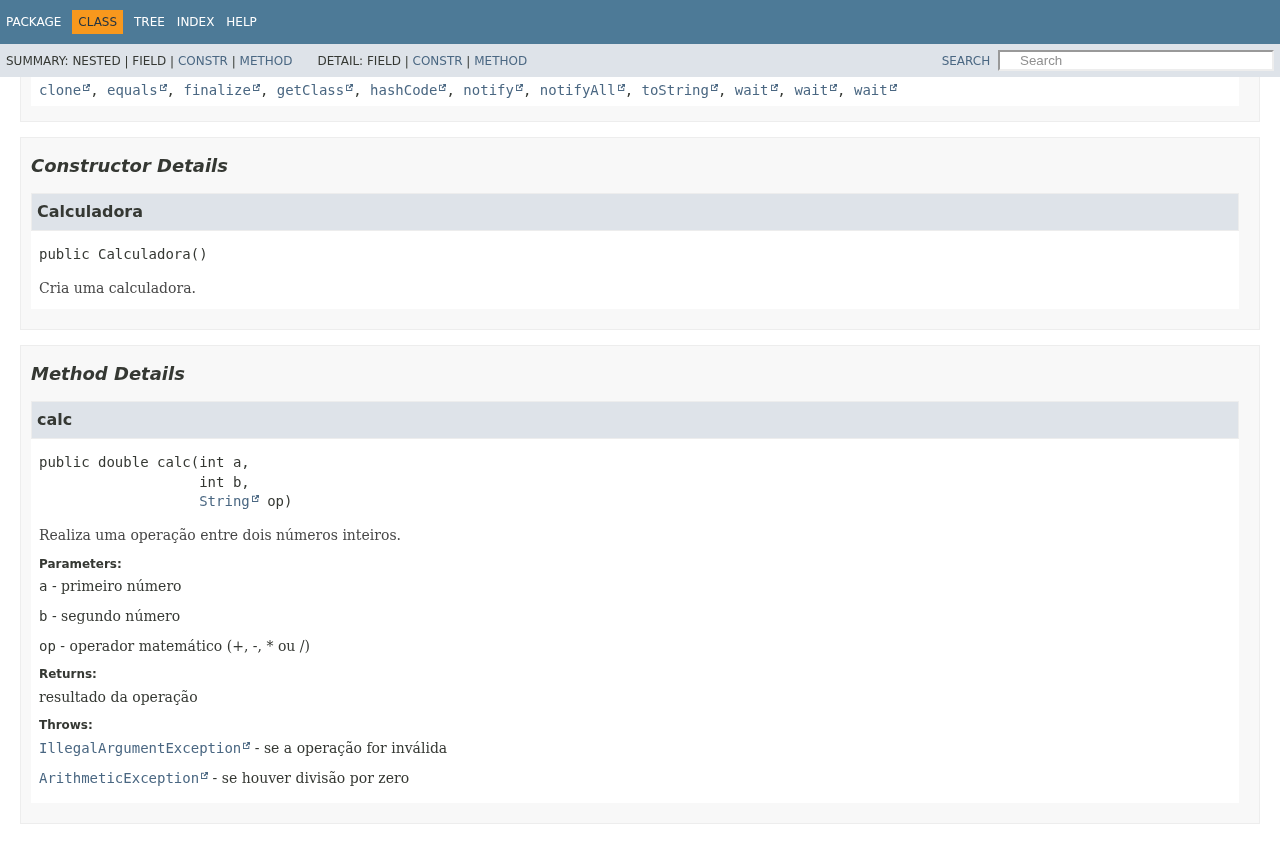
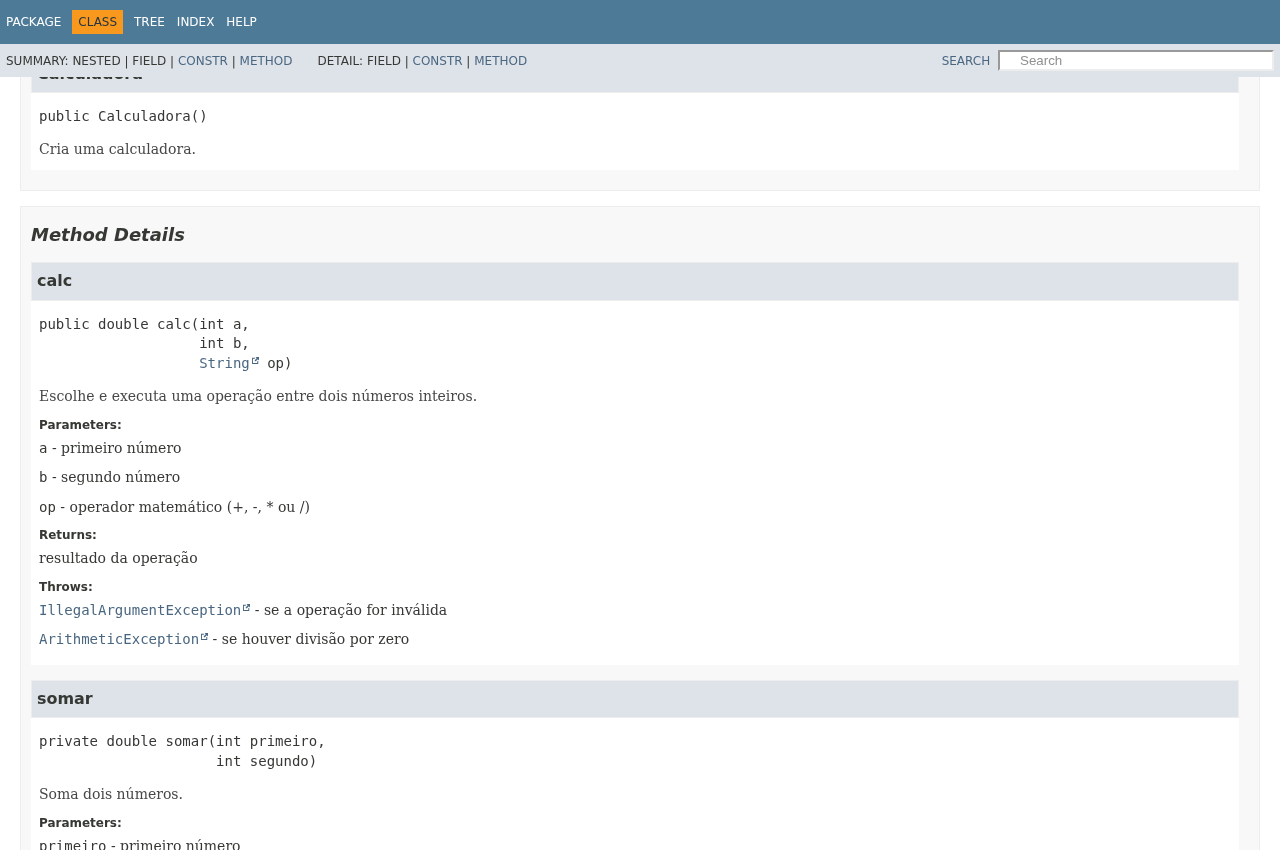
Atualiza JavaDoc e evidências dos testes após refatoração

Changed region(s): [[0.0, 0.4282, 0.9688, 1.0], [0.0, 0.0918, 0.9688, 0.4282]]

diff --git a/docs/calculadora/Calculadora.html b/docs/calculadora/Calculadora.html
@@ -90,10 +90,11 @@ loadScripts(document, 'script');</script>
 <hr>
 <div class="type-signature"><span class="modifiers">public class </span><span class="element-name type-name-label">Calculadora</span>
 <span class="extends-implements">extends <a href="https://docs.oracle.com/en/java/javase/21/docs/api/java.base/java/lang/Object.html" title="class or interface in java.lang" class="external-link">Object</a></span></div>
-<div class="block">Calculadora de operações matemáticas básicas.</div>
+<div class="block">Calculadora de operações matemáticas básicas.
+ Versão refatorada com métodos separados para cada operação.</div>
 <dl class="notes">
 <dt>Version:</dt>
-<dd>1.0</dd>
+<dd>2.0</dd>
 <dt>Author:</dt>
 <dd>Aluno</dd>
 </dl>
@@ -131,7 +132,31 @@ loadScripts(document, 'script');</script>
  int&nbsp;b,
  <a href="https://docs.oracle.com/en/java/javase/21/docs/api/java.base/java/lang/String.html" title="class or interface in java.lang" class="external-link">String</a>&nbsp;op)</code></div>
 <div class="col-last even-row-color method-summary-table method-summary-table-tab2 method-summary-table-tab4">
-<div class="block">Realiza uma operação entre dois números inteiros.</div>
+<div class="block">Escolhe e executa uma operação entre dois números inteiros.</div>
+</div>
+<div class="col-first odd-row-color method-summary-table method-summary-table-tab2 method-summary-table-tab4"><code>private double</code></div>
+<div class="col-second odd-row-color method-summary-table method-summary-table-tab2 method-summary-table-tab4"><code><a href="#dividir(int,int)" class="member-name-link">dividir</a><wbr>(int&nbsp;primeiro,
+ int&nbsp;segundo)</code></div>
+<div class="col-last odd-row-color method-summary-table method-summary-table-tab2 method-summary-table-tab4">
+<div class="block">Divide o primeiro número pelo segundo.</div>
+</div>
+<div class="col-first even-row-color method-summary-table method-summary-table-tab2 method-summary-table-tab4"><code>private double</code></div>
+<div class="col-second even-row-color method-summary-table method-summary-table-tab2 method-summary-table-tab4"><code><a href="#multiplicar(int,int)" class="member-name-link">multiplicar</a><wbr>(int&nbsp;primeiro,
+ int&nbsp;segundo)</code></div>
+<div class="col-last even-row-color method-summary-table method-summary-table-tab2 method-summary-table-tab4">
+<div class="block">Multiplica dois números.</div>
+</div>
+<div class="col-first odd-row-color method-summary-table method-summary-table-tab2 method-summary-table-tab4"><code>private double</code></div>
+<div class="col-second odd-row-color method-summary-table method-summary-table-tab2 method-summary-table-tab4"><code><a href="#somar(int,int)" class="member-name-link">somar</a><wbr>(int&nbsp;primeiro,
+ int&nbsp;segundo)</code></div>
+<div class="col-last odd-row-color method-summary-table method-summary-table-tab2 method-summary-table-tab4">
+<div class="block">Soma dois números.</div>
+</div>
+<div class="col-first even-row-color method-summary-table method-summary-table-tab2 method-summary-table-tab4"><code>private double</code></div>
+<div class="col-second even-row-color method-summary-table method-summary-table-tab2 method-summary-table-tab4"><code><a href="#subtrair(int,int)" class="member-name-link">subtrair</a><wbr>(int&nbsp;primeiro,
+ int&nbsp;segundo)</code></div>
+<div class="col-last even-row-color method-summary-table method-summary-table-tab2 method-summary-table-tab4">
+<div class="block">Subtrai o segundo número do primeiro.</div>
 </div>
 </div>
 </div>
@@ -171,7 +196,7 @@ loadScripts(document, 'script');</script>
 <div class="member-signature"><span class="modifiers">public</span>&nbsp;<span class="return-type">double</span>&nbsp;<span class="element-name">calc</span><wbr><span class="parameters">(int&nbsp;a,
  int&nbsp;b,
  <a href="https://docs.oracle.com/en/java/javase/21/docs/api/java.base/java/lang/String.html" title="class or interface in java.lang" class="external-link">String</a>&nbsp;op)</span></div>
-<div class="block">Realiza uma operação entre dois números inteiros.</div>
+<div class="block">Escolhe e executa uma operação entre dois números inteiros.</div>
 <dl class="notes">
 <dt>Parameters:</dt>
 <dd><code>a</code> - primeiro número</dd>
@@ -182,6 +207,68 @@ loadScripts(document, 'script');</script>
 <dt>Throws:</dt>
 <dd><code><a href="https://docs.oracle.com/en/java/javase/21/docs/api/java.base/java/lang/IllegalArgumentException.html" title="class or interface in java.lang" class="external-link">IllegalArgumentException</a></code> - se a operação for inválida</dd>
 <dd><code><a href="https://docs.oracle.com/en/java/javase/21/docs/api/java.base/java/lang/ArithmeticException.html" title="class or interface in java.lang" class="external-link">ArithmeticException</a></code> - se houver divisão por zero</dd>
+</dl>
+</section>
+</li>
+<li>
+<section class="detail" id="somar(int,int)">
+<h3>somar</h3>
+<div class="member-signature"><span class="modifiers">private</span>&nbsp;<span class="return-type">double</span>&nbsp;<span class="element-name">somar</span><wbr><span class="parameters">(int&nbsp;primeiro,
+ int&nbsp;segundo)</span></div>
+<div class="block">Soma dois números.</div>
+<dl class="notes">
+<dt>Parameters:</dt>
+<dd><code>primeiro</code> - primeiro número</dd>
+<dd><code>segundo</code> - segundo número</dd>
+<dt>Returns:</dt>
+<dd>soma dos números</dd>
+</dl>
+</section>
+</li>
+<li>
+<section class="detail" id="subtrair(int,int)">
+<h3>subtrair</h3>
+<div class="member-signature"><span class="modifiers">private</span>&nbsp;<span class="return-type">double</span>&nbsp;<span class="element-name">subtrair</span><wbr><span class="parameters">(int&nbsp;primeiro,
+ int&nbsp;segundo)</span></div>
+<div class="block">Subtrai o segundo número do primeiro.</div>
+<dl class="notes">
+<dt>Parameters:</dt>
+<dd><code>primeiro</code> - primeiro número</dd>
+<dd><code>segundo</code> - segundo número</dd>
+<dt>Returns:</dt>
+<dd>diferença dos números</dd>
+</dl>
+</section>
+</li>
+<li>
+<section class="detail" id="multiplicar(int,int)">
+<h3>multiplicar</h3>
+<div class="member-signature"><span class="modifiers">private</span>&nbsp;<span class="return-type">double</span>&nbsp;<span class="element-name">multiplicar</span><wbr><span class="parameters">(int&nbsp;primeiro,
+ int&nbsp;segundo)</span></div>
+<div class="block">Multiplica dois números.</div>
+<dl class="notes">
+<dt>Parameters:</dt>
+<dd><code>primeiro</code> - primeiro número</dd>
+<dd><code>segundo</code> - segundo número</dd>
+<dt>Returns:</dt>
+<dd>produto dos números</dd>
+</dl>
+</section>
+</li>
+<li>
+<section class="detail" id="dividir(int,int)">
+<h3>dividir</h3>
+<div class="member-signature"><span class="modifiers">private</span>&nbsp;<span class="return-type">double</span>&nbsp;<span class="element-name">dividir</span><wbr><span class="parameters">(int&nbsp;primeiro,
+ int&nbsp;segundo)</span></div>
+<div class="block">Divide o primeiro número pelo segundo.</div>
+<dl class="notes">
+<dt>Parameters:</dt>
+<dd><code>primeiro</code> - dividendo</dd>
+<dd><code>segundo</code> - divisor</dd>
+<dt>Returns:</dt>
+<dd>resultado da divisão</dd>
+<dt>Throws:</dt>
+<dd><code><a href="https://docs.oracle.com/en/java/javase/21/docs/api/java.base/java/lang/ArithmeticException.html" title="class or interface in java.lang" class="external-link">ArithmeticException</a></code> - se o divisor for zero</dd>
 </dl>
 </section>
 </li>

diff --git a/docs/index-all.html b/docs/index-all.html
@@ -48,7 +48,7 @@ loadScripts(document, 'script');</script>
 <div class="header">
 <h1>Index</h1>
 </div>
-<a href="#I:A">A</a>&nbsp;<a href="#I:C">C</a>&nbsp;<a href="#I:M">M</a>&nbsp;<a href="#I:R">R</a>&nbsp;<a href="#I:T">T</a>&nbsp;<a href="#I:V">V</a>&nbsp;<br><a href="allclasses-index.html">All&nbsp;Classes&nbsp;and&nbsp;Interfaces</a><span class="vertical-separator">|</span><a href="allpackages-index.html">All&nbsp;Packages</a>
+<a href="#I:A">A</a>&nbsp;<a href="#I:C">C</a>&nbsp;<a href="#I:D">D</a>&nbsp;<a href="#I:M">M</a>&nbsp;<a href="#I:R">R</a>&nbsp;<a href="#I:S">S</a>&nbsp;<a href="#I:T">T</a>&nbsp;<a href="#I:V">V</a>&nbsp;<br><a href="allclasses-index.html">All&nbsp;Classes&nbsp;and&nbsp;Interfaces</a><span class="vertical-separator">|</span><a href="allpackages-index.html">All&nbsp;Packages</a>
 <h2 class="title" id="I:A">A</h2>
 <dl class="index">
 <dt><a href="calculadora/TesteCalculadora.html#aprovados" class="member-name-link">aprovados</a> - Static variable in class calculadora.<a href="calculadora/TesteCalculadora.html" title="class in calculadora">TesteCalculadora</a></dt>
@@ -60,7 +60,7 @@ loadScripts(document, 'script');</script>
 <dl class="index">
 <dt><a href="calculadora/Calculadora.html#calc(int,int,java.lang.String)" class="member-name-link">calc(int, int, String)</a> - Method in class calculadora.<a href="calculadora/Calculadora.html" title="class in calculadora">Calculadora</a></dt>
 <dd>
-<div class="block">Realiza uma operação entre dois números inteiros.</div>
+<div class="block">Escolhe e executa uma operação entre dois números inteiros.</div>
 </dd>
 <dt><a href="calculadora/package-summary.html">calculadora</a> - package calculadora</dt>
 <dd>&nbsp;</dd>
@@ -71,6 +71,13 @@ loadScripts(document, 'script');</script>
 <dt><a href="calculadora/Calculadora.html#%3Cinit%3E()" class="member-name-link">Calculadora()</a> - Constructor for class calculadora.<a href="calculadora/Calculadora.html" title="class in calculadora">Calculadora</a></dt>
 <dd>
 <div class="block">Cria uma calculadora.</div>
+</dd>
+</dl>
+<h2 class="title" id="I:D">D</h2>
+<dl class="index">
+<dt><a href="calculadora/Calculadora.html#dividir(int,int)" class="member-name-link">dividir(int, int)</a> - Method in class calculadora.<a href="calculadora/Calculadora.html" title="class in calculadora">Calculadora</a></dt>
+<dd>
+<div class="block">Divide o primeiro número pelo segundo.</div>
 </dd>
 </dl>
 <h2 class="title" id="I:M">M</h2>
@@ -91,12 +98,27 @@ loadScripts(document, 'script');</script>
 <dd>
 <div class="block">Impede a criação de objetos da classe Main.</div>
 </dd>
+<dt><a href="calculadora/Calculadora.html#multiplicar(int,int)" class="member-name-link">multiplicar(int, int)</a> - Method in class calculadora.<a href="calculadora/Calculadora.html" title="class in calculadora">Calculadora</a></dt>
+<dd>
+<div class="block">Multiplica dois números.</div>
+</dd>
 </dl>
 <h2 class="title" id="I:R">R</h2>
 <dl class="index">
 <dt><a href="calculadora/TesteCalculadora.html#reprovados" class="member-name-link">reprovados</a> - Static variable in class calculadora.<a href="calculadora/TesteCalculadora.html" title="class in calculadora">TesteCalculadora</a></dt>
 <dd>
 <div class="block">Quantidade de testes reprovados.</div>
+</dd>
+</dl>
+<h2 class="title" id="I:S">S</h2>
+<dl class="index">
+<dt><a href="calculadora/Calculadora.html#somar(int,int)" class="member-name-link">somar(int, int)</a> - Method in class calculadora.<a href="calculadora/Calculadora.html" title="class in calculadora">Calculadora</a></dt>
+<dd>
+<div class="block">Soma dois números.</div>
+</dd>
+<dt><a href="calculadora/Calculadora.html#subtrair(int,int)" class="member-name-link">subtrair(int, int)</a> - Method in class calculadora.<a href="calculadora/Calculadora.html" title="class in calculadora">Calculadora</a></dt>
+<dd>
+<div class="block">Subtrai o segundo número do primeiro.</div>
 </dd>
 </dl>
 <h2 class="title" id="I:T">T</h2>
@@ -125,7 +147,7 @@ loadScripts(document, 'script');</script>
 <div class="block">Registra se o teste passou ou falhou.</div>
 </dd>
 </dl>
-<a href="#I:A">A</a>&nbsp;<a href="#I:C">C</a>&nbsp;<a href="#I:M">M</a>&nbsp;<a href="#I:R">R</a>&nbsp;<a href="#I:T">T</a>&nbsp;<a href="#I:V">V</a>&nbsp;<br><a href="allclasses-index.html">All&nbsp;Classes&nbsp;and&nbsp;Interfaces</a><span class="vertical-separator">|</span><a href="allpackages-index.html">All&nbsp;Packages</a></main>
+<a href="#I:A">A</a>&nbsp;<a href="#I:C">C</a>&nbsp;<a href="#I:D">D</a>&nbsp;<a href="#I:M">M</a>&nbsp;<a href="#I:R">R</a>&nbsp;<a href="#I:S">S</a>&nbsp;<a href="#I:T">T</a>&nbsp;<a href="#I:V">V</a>&nbsp;<br><a href="allclasses-index.html">All&nbsp;Classes&nbsp;and&nbsp;Interfaces</a><span class="vertical-separator">|</span><a href="allpackages-index.html">All&nbsp;Packages</a></main>
 </div>
 </div>
 </body>

diff --git a/docs/member-search-index.js b/docs/member-search-index.js
@@ -1,1 +1,1 @@
-memberSearchIndex = [{"p":"calculadora","c":"TesteCalculadora","l":"aprovados"},{"p":"calculadora","c":"Calculadora","l":"calc(int, int, String)","u":"calc(int,int,java.lang.String)"},{"p":"calculadora","c":"Calculadora","l":"Calculadora()","u":"%3Cinit%3E()"},{"p":"calculadora","c":"Main","l":"Main()","u":"%3Cinit%3E()"},{"p":"calculadora","c":"Main","l":"main(String[])","u":"main(java.lang.String[])"},{"p":"calculadora","c":"TesteCalculadora","l":"main(String[])","u":"main(java.lang.String[])"},{"p":"calculadora","c":"TesteCalculadora","l":"reprovados"},{"p":"calculadora","c":"TesteCalculadora","l":"testarErro(Calculadora, String, int, int, String, String)","u":"testarErro(calculadora.Calculadora,java.lang.String,int,int,java.lang.String,java.lang.String)"},{"p":"calculadora","c":"TesteCalculadora","l":"testarOperacao(Calculadora, String, int, int, String, double)","u":"testarOperacao(calculadora.Calculadora,java.lang.String,int,int,java.lang.String,double)"},{"p":"calculadora","c":"TesteCalculadora","l":"TesteCalculadora()","u":"%3Cinit%3E()"},{"p":"calculadora","c":"TesteCalculadora","l":"verificar(boolean)"}];updateSearchResults();
+memberSearchIndex = [{"p":"calculadora","c":"TesteCalculadora","l":"aprovados"},{"p":"calculadora","c":"Calculadora","l":"calc(int, int, String)","u":"calc(int,int,java.lang.String)"},{"p":"calculadora","c":"Calculadora","l":"Calculadora()","u":"%3Cinit%3E()"},{"p":"calculadora","c":"Calculadora","l":"dividir(int, int)","u":"dividir(int,int)"},{"p":"calculadora","c":"Main","l":"Main()","u":"%3Cinit%3E()"},{"p":"calculadora","c":"Main","l":"main(String[])","u":"main(java.lang.String[])"},{"p":"calculadora","c":"TesteCalculadora","l":"main(String[])","u":"main(java.lang.String[])"},{"p":"calculadora","c":"Calculadora","l":"multiplicar(int, int)","u":"multiplicar(int,int)"},{"p":"calculadora","c":"TesteCalculadora","l":"reprovados"},{"p":"calculadora","c":"Calculadora","l":"somar(int, int)","u":"somar(int,int)"},{"p":"calculadora","c":"Calculadora","l":"subtrair(int, int)","u":"subtrair(int,int)"},{"p":"calculadora","c":"TesteCalculadora","l":"testarErro(Calculadora, String, int, int, String, String)","u":"testarErro(calculadora.Calculadora,java.lang.String,int,int,java.lang.String,java.lang.String)"},{"p":"calculadora","c":"TesteCalculadora","l":"testarOperacao(Calculadora, String, int, int, String, double)","u":"testarOperacao(calculadora.Calculadora,java.lang.String,int,int,java.lang.String,double)"},{"p":"calculadora","c":"TesteCalculadora","l":"TesteCalculadora()","u":"%3Cinit%3E()"},{"p":"calculadora","c":"TesteCalculadora","l":"verificar(boolean)"}];updateSearchResults();

diff --git a/README.md b/README.md
@@ -47,7 +47,7 @@ java -cp bin calculadora.TesteCalculadora
 
 Os testes comparam automaticamente a entrada, o resultado esperado e o resultado obtido. Nos casos de erro, comparam o tipo da exceção e sua mensagem. Caso algum teste falhe, a execução dos testes termina com `AssertionError`. Os sete casos são soma, subtração, multiplicação, divisão, divisão por zero, operação inválida e divisão decimal.
 
-Resultado da execução nesta branch: **7 aprovados e 0 reprovados**.
+Resultado após a refatoração: **7 aprovados e 0 reprovados** (os mesmos testes da branch `main`).
 
 ![Execução dos testes](prints/testes.png)
 
